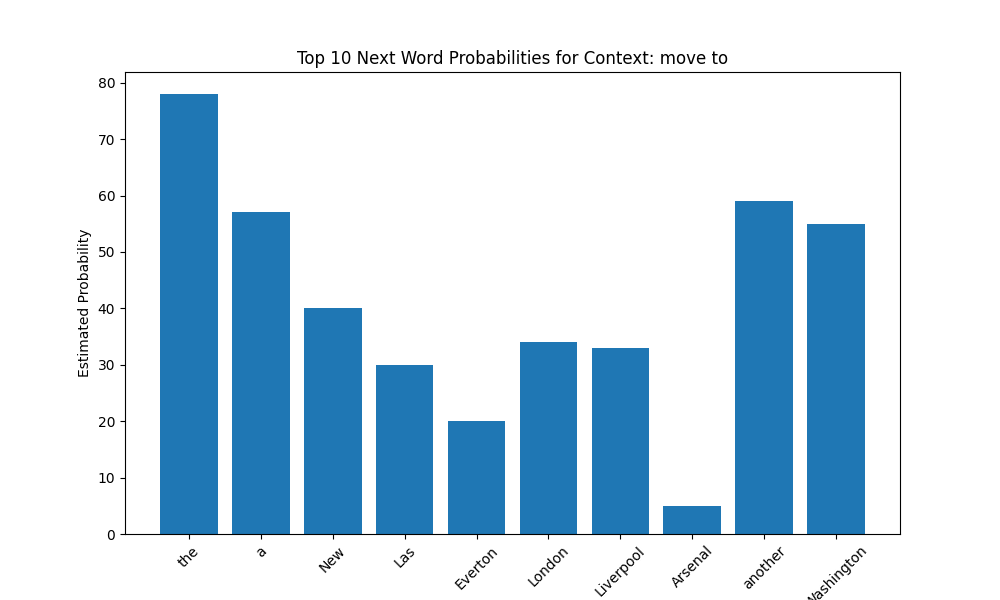
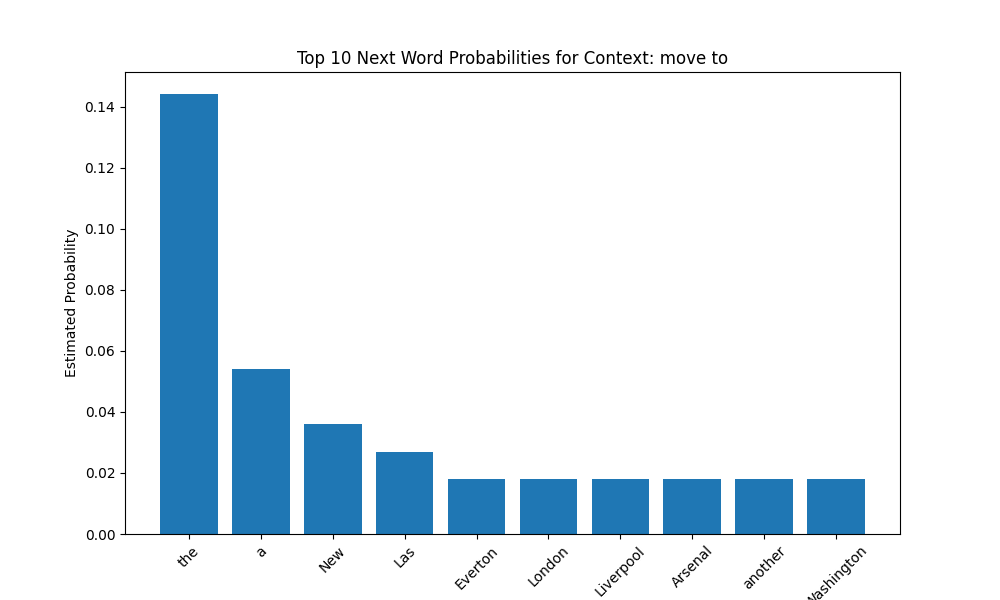
Fixed plot in ngrams_lm.py

diff --git a/hw2/ngram_lm.py b/hw2/ngram_lm.py
@@ -122,9 +122,10 @@ def plot_next_word_prob(word_scores, word_candidates, context, top=10, save_path
     # - context is a tuple of words
     top_idx = np.argsort(word_scores[context])[-top:][::-1]
     top_words = np.array(word_candidates[context])[top_idx]
-
+    scores = word_scores[context][top_idx]
+    
     plt.figure(figsize=(10, 6))
-    plt.bar(top_words, top_idx)
+    plt.bar(top_words, scores)
     plt.xlabel('Next Word Candidates')
     plt.ylabel('Estimated Probability')
     plt.title(f'Top {top} Next Word Probabilities for Context: {" ".join(context)}')
